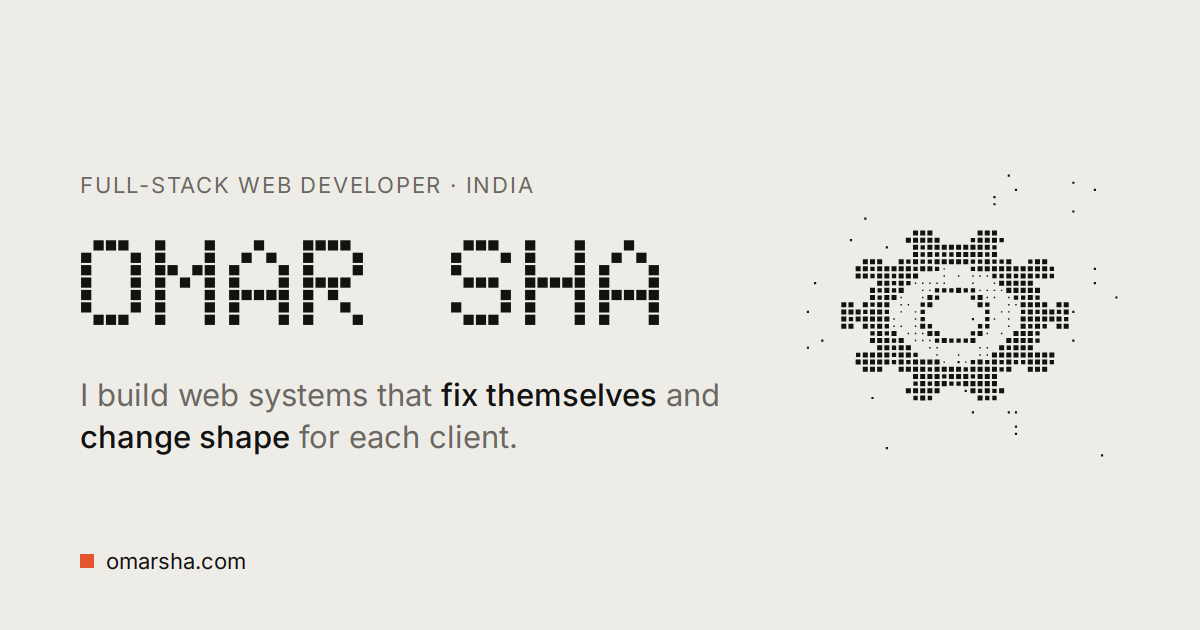
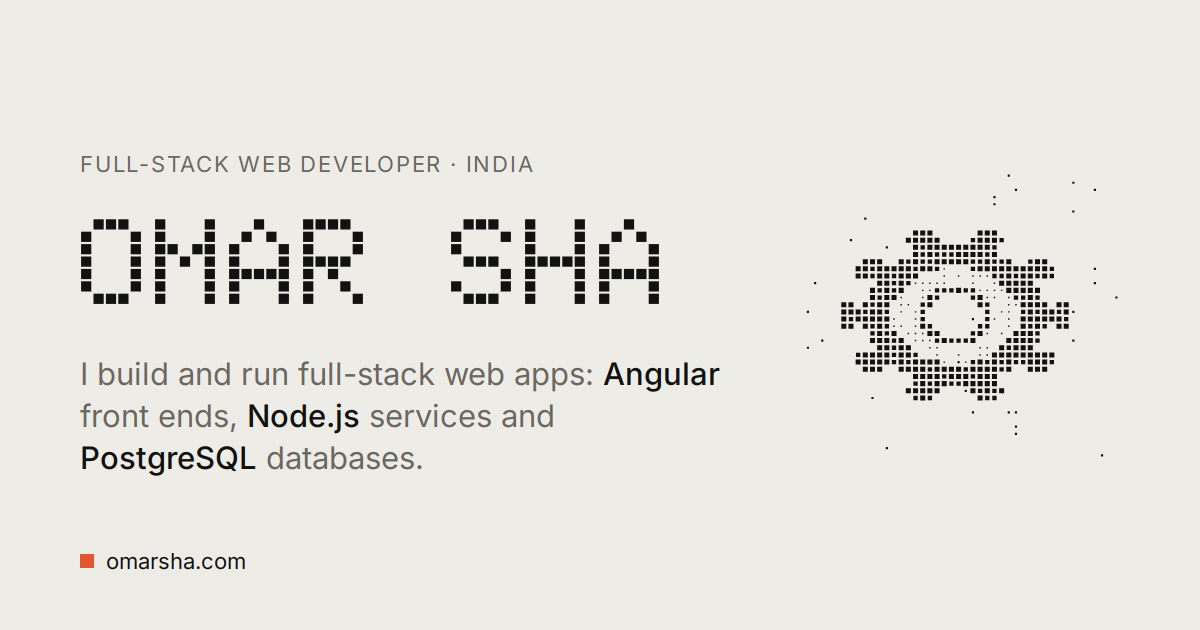
Plain, verifiable wording: new headline, toned-down project summaries, updated share image

diff --git a/scripts/build-content.js b/scripts/build-content.js
@@ -178,7 +178,7 @@ write('/', {
 
 // Work index + project pages
 write('/work/', {
-  title: 'Work', description: 'Projects: a self-managing app and one app shown as many 3D worlds.',
+  title: 'Work', description: 'Two in-progress projects: an automated bug-fix pipeline and configurable 3D interfaces.',
   body: `<section class="page-head wrap">
   <p class="kicker in d1">Work</p>
   <h1 class="dot-title in d1">Projects</h1>

diff --git a/content/about.md b/content/about.md
@@ -1,16 +1,16 @@
 ---
 title: About
-description: "Full-stack web developer in India working in Angular, Node.js and PostgreSQL, building self-managing apps and multi-world interfaces in my own time."
+description: "Full-stack web developer in India working in Angular, Node.js and PostgreSQL, with side projects in automated bug fixing and configurable 3D interfaces."
 draft: true
 ---
 
 I'm a full-stack web developer based in India. At work I build with Angular, Node.js and PostgreSQL. {{TODO: years of experience and the kind of work you do professionally — no client names unless you want them}}
 
-Outside work I'm interested in the parts of software that are usually hard: systems that repair themselves, interfaces that can be delivered in completely different forms, and running real software on my own hardware.
+Outside work I'm interested in the parts of software that are usually hard: automating parts of bug fixing safely, presenting the same features in different forms, and running software on my own hardware.
 
 ## How I work
 
-I own my projects end to end: I decide what to build and how it is structured, set the rules the code has to follow, test every change, and run the result in production. I use AI tools to speed up the implementation, which lets me take on bigger, harder systems.
+I own my projects end to end: I decide what to build and how it is structured, set the rules the code has to follow, test every change, and deploy and run it myself. I use AI tools to speed up the implementation, which lets me take on bigger, harder systems.
 
 ## Homelab
 

diff --git a/content/projects/self-managing.md b/content/projects/self-managing.md
@@ -3,9 +3,9 @@ title: Self-managing app
 slug: self-managing
 order: 1
 status: In progress
-tagline: "Errors in, tested fixes out."
-summary: "When the app throws an error, an AI writes a test that reproduces it, proposes a fix as a pull request, and the change goes through CI and a preview before it can ship — with a replay-based rollback if it goes wrong."
-description: "An in-progress web app that turns its own runtime errors into tested, reviewable fix pull requests, with honest results as they come in."
+tagline: "From a runtime error to a fix proposal you can review."
+summary: "An experiment in automating bug fixing safely. When the app logs an error, an AI tool tries to reproduce it with a failing test and proposes a fix as a pull request. Nothing ships without passing CI and a preview deployment."
+description: "An in-progress experiment: turning a web app's runtime errors into tested fix pull requests that can be reviewed, with results published as they come in."
 draft: true
 ---
 

diff --git a/content/projects/many-worlds.md b/content/projects/many-worlds.md
@@ -4,8 +4,8 @@ slug: many-worlds
 order: 2
 status: In progress
 tagline: "One set of features, many interfaces."
-summary: "The same feature modules shown as a car cockpit, an office cubicle or a small town — chosen by a scene config file, with an automatic 2D version for every world."
-description: "An in-progress interface system where one set of features is delivered as different 3D worlds from a config file, with an automatic 2D fallback."
+summary: "An experiment in presenting the same feature modules as different 3D scenes, such as a car cockpit, an office or a small town, chosen by a config file, with a plain 2D version generated from the same config."
+description: "An in-progress experiment: one set of features presented as different 3D scenes from a config file, with a generated 2D version."
 draft: true
 ---
 

diff --git a/content/home.md b/content/home.md
@@ -1,4 +1,4 @@
 ---
 title: Home
-description: "Full-stack web developer (Angular, Node.js, PostgreSQL) building self-managing apps and interfaces that change shape for each client."
+description: "Omar Sha is a full-stack web developer in India working with Angular, Node.js and PostgreSQL."
 ---
